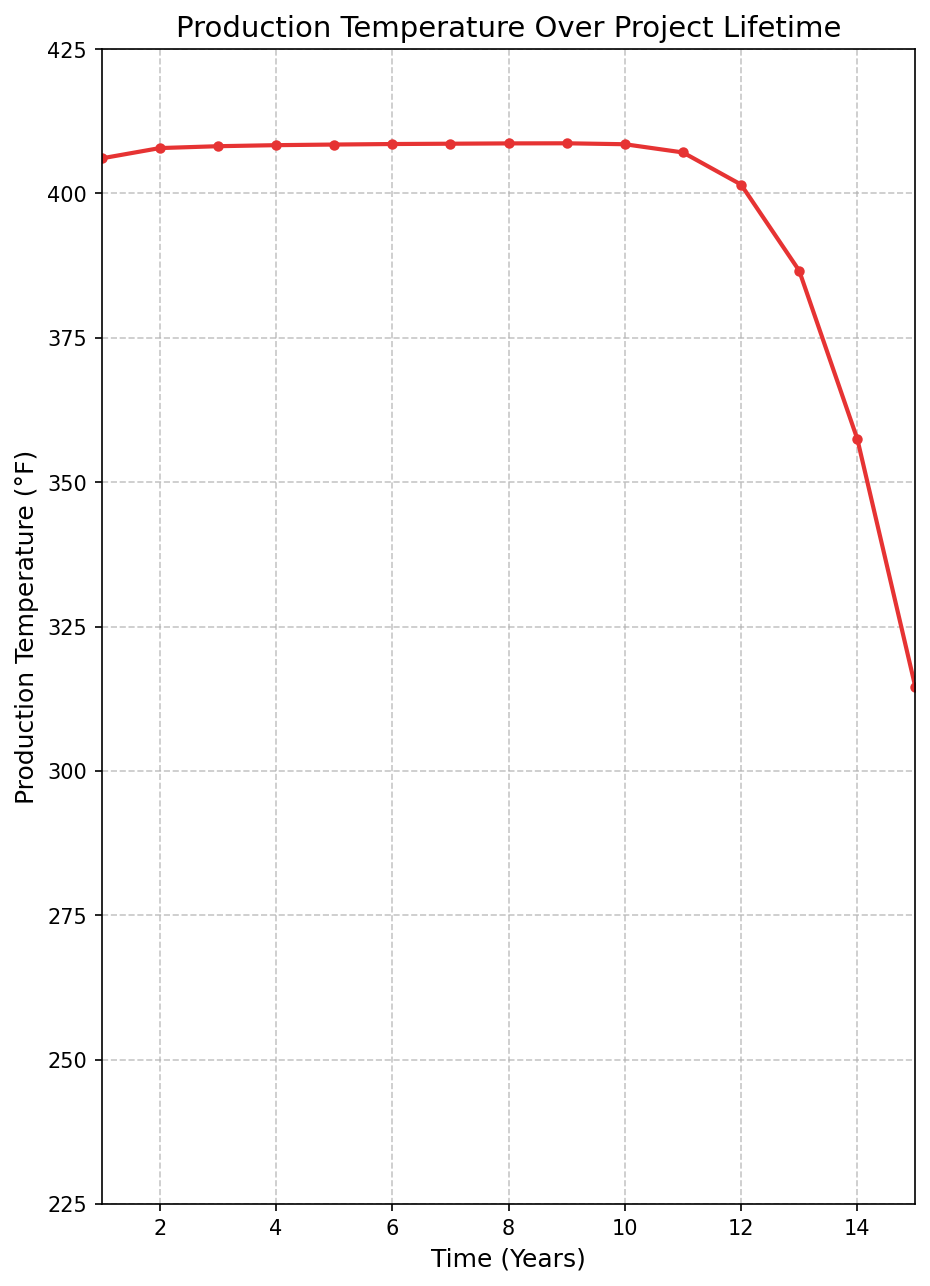
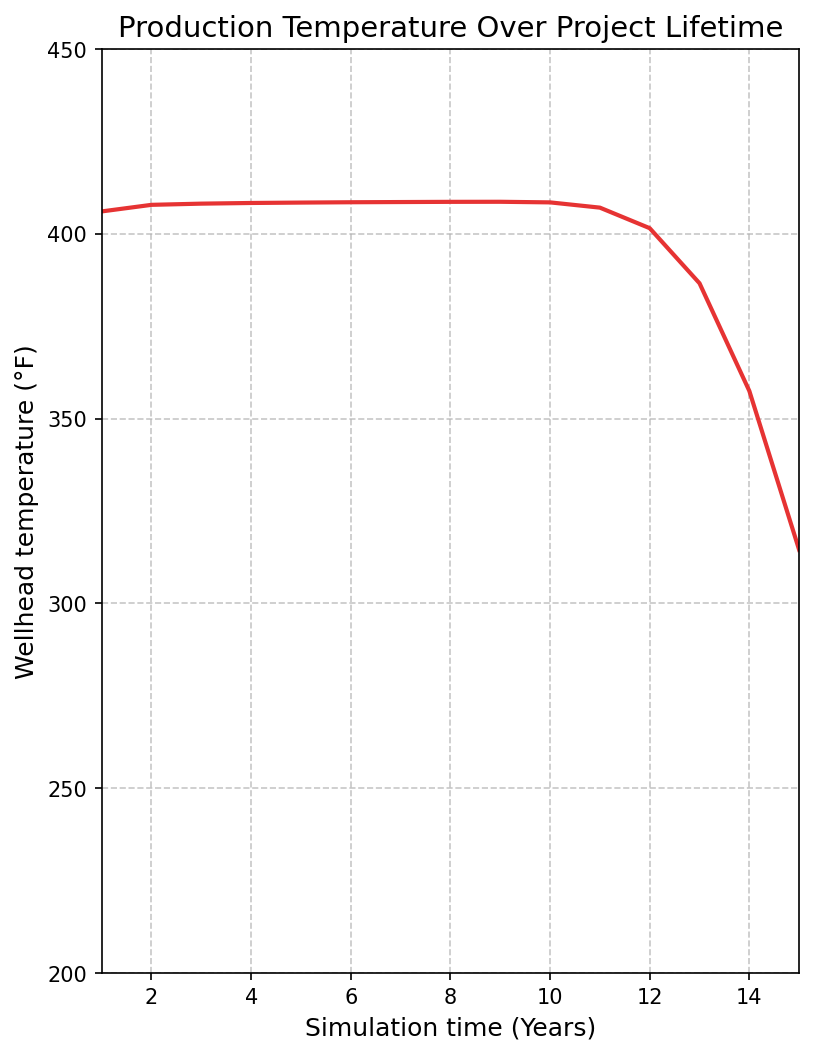
make graph nicer

diff --git a/docs/generate_fervo_project_cape_4_graphs.py b/docs/generate_fervo_project_cape_4_graphs.py
@@ -100,20 +100,23 @@ def generate_production_temperature_graph(
     # Convert Celsius to Fahrenheit
     temperatures_fahrenheit = temperatures_celsius * 9 / 5 + 32
 
-    # Create the figure (same size as net power graph)
-    fig, ax = plt.subplots(figsize=(7, 10))
+    # Create the figure - taller than wide (portrait orientation)
+    fig, ax = plt.subplots(figsize=(6, 8))
 
-    # Plot the data
-    ax.plot(years, temperatures_fahrenheit, color='#e63333', linewidth=2, marker='o', markersize=4)
+    # Plot the data - just the curve, no markers
+    ax.plot(years, temperatures_fahrenheit, color='#e63333', linewidth=2)
 
     # Set labels and title
-    ax.set_xlabel('Time (Years)', fontsize=12)
-    ax.set_ylabel('Production Temperature (°F)', fontsize=12)
+    ax.set_xlabel('Simulation time (Years)', fontsize=12)
+    ax.set_ylabel('Wellhead temperature (°F)', fontsize=12)
     ax.set_title('Production Temperature Over Project Lifetime', fontsize=14)
 
     # Set axis limits
     ax.set_xlim(years.min(), years.max())
-    ax.set_ylim(225, 425)
+    ax.set_ylim(200, 450)
+
+    # Set y-axis ticks every 50 degrees, ensuring 400 is included
+    ax.set_yticks([200, 250, 300, 350, 400, 450])
 
     # Add grid for better readability
     ax.grid(True, linestyle='--', alpha=0.7)
